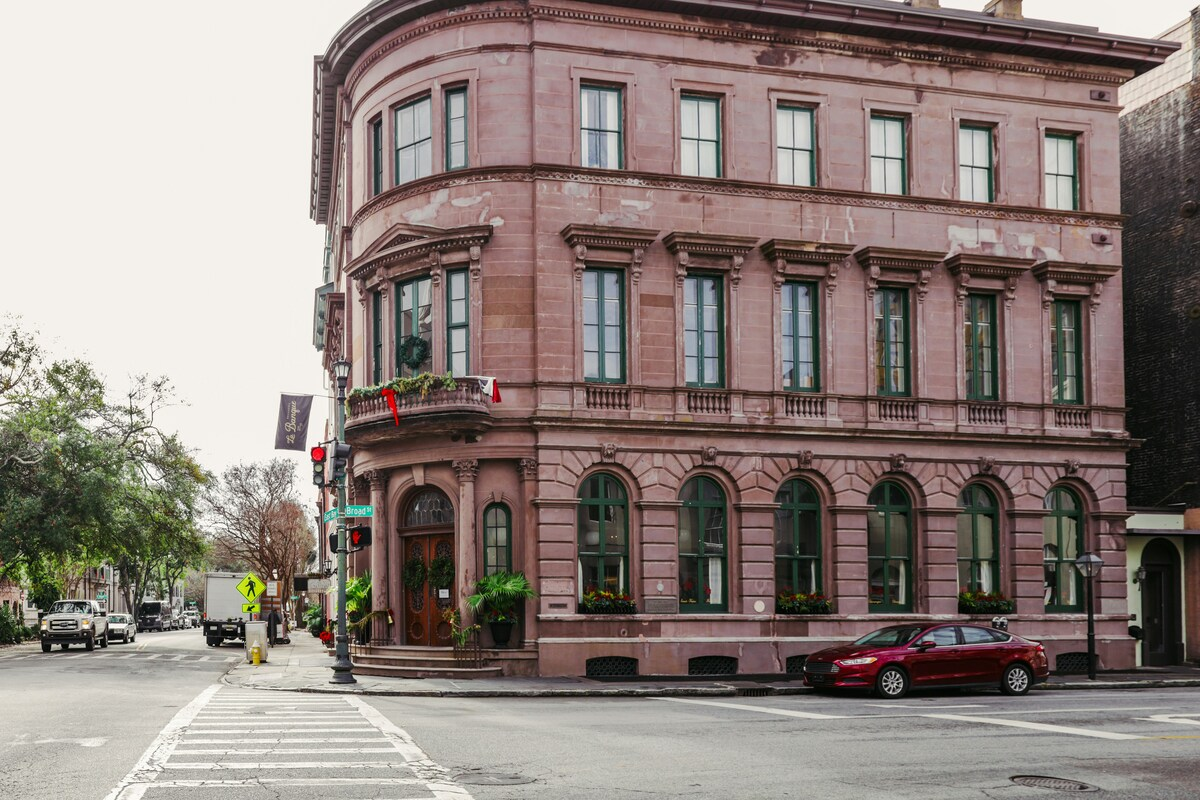
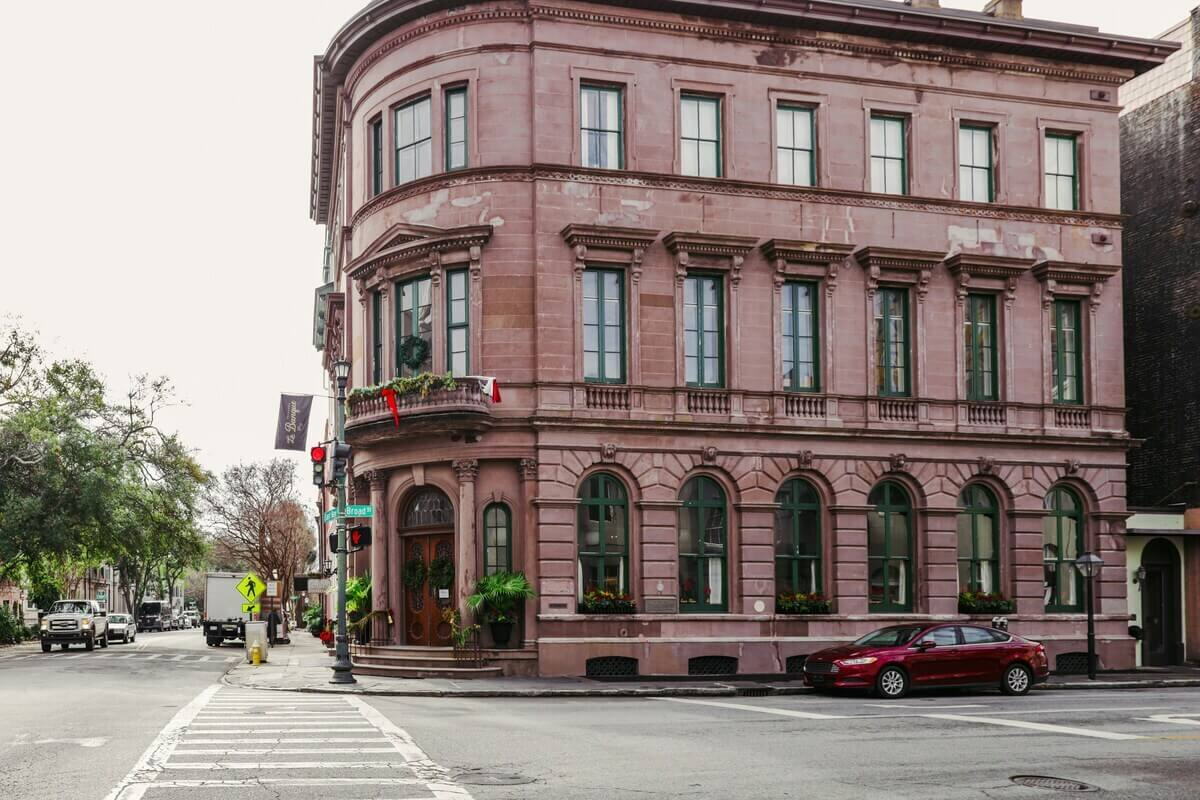
reestructuracion de carpetas, cambio de rutas y optimización de imagenes

diff --git a/pages/nosotros.html b/pages/nosotros.html
@@ -3,10 +3,10 @@
 <head>
   <meta charset="UTF-8">
   <meta name="viewport" content="width=device-width, initial-scale=1.0">
-  <link rel="stylesheet" href="./css/main.css">
+  <link rel="stylesheet" href="../css/main.css">
 
-    <title>Nosotros | Hotel El Refugio</title>
-    <link rel="shortcut icon" href="./img/logos/refugio.png" type="image/x-icon">
+    <title>Nosotros | Página Nosotros del Hotel El Refugio</title>
+    <link rel="shortcut icon" href="../img/logos/refugioicono.png" type="image/x-icon">
 
  <meta name="description" content="Hotel El Refugio ofrece alojamiento confortable, habitaciones acogedoras y atención personalizada para disfrutar de una estadía tranquila y agradable. Conocé nuestras instalaciones y reservá tu estadía.">
   <meta name="keywords" content="Hotel El Refugio, hotel en Córdoba, alojamiento en Córdoba, hospedaje en Córdoba, habitaciones de hotel, alojamiento confortable, estadía en Córdoba, reservas de hotel, hotel turístico, habitaciones acogedoras, turismo en Córdoba">
@@ -23,12 +23,12 @@
 
   <header>
     <nav class="header">
-      <div class="logo"><img src="./img/logos/refugio70x70.png" alt="logo hotel el refugio" title="logo hotel El Refugio"></div>
+      <div class="logo"><img src="../img/logos/refugio70x70.png" alt="logo hotel el refugio" title="logo hotel El Refugio"></div>
       <ul class="nav-links">
-        <li><a href="index.html">Inicio</a></li>
-        <li><a href="habitaciones.html">Habitaciones</a></li>
-        <li><a href="novedades.html">Novedades</a></li>
-        <li><a href="reservas.html">Reservas</a></li>
+        <li><a href="../index.html" title="link a la página inicio">Inicio</a></li>
+        <li><a href="./habitaciones.html" title="link a la página habitaciones">Habitaciones</a></li>
+        <li><a href="./novedades.html" title="link a la página novedades">Novedades</a></li>
+        <li><a href="./reservas.html" title="link a la página reservas">Reservas</a></li>
       </ul>
     </nav>
   </header>
@@ -37,8 +37,8 @@
     <section class="content">
       <h2>Hotel El Refugio: tu hogar en el corazón de la ciudad</h2>
       <div class="card refugio">
-      <img src="./img/images/lateralhotel1200x995.jpg" alt="lateral del hotel El Refugio" title="Foto del lateral del Hotel El Refugio">
-      <img src="./img/images/hotelcontrapicado995.jpg" alt="hotel El Refugio visto desde abajo" title="Foto del Hotel El Refugio visto desde abajo">
+      <img src="../img/images/lateralhotel1200x995.jpg" alt="lateral del hotel El Refugio" title="Foto del lateral del Hotel El Refugio">
+      <img src="../img/images/hotelcontrapicado995.jpg" alt="hotel El Refugio visto desde abajo" title="Foto del Hotel El Refugio visto desde abajo">
       </div>
 
       <div class="textorefugio">
@@ -57,23 +57,23 @@ Durante todo el año, viajeros de primer nivel de todo el mundo eligen El Refugi
       
       <div class="cards">
         <div class="card">
-          <img src="./img/logos/desayuno.png" alt="icono desayuno" class="logoinicio" title="icono de un café y una medialuna">
+          <img src="../img/logos/desayuno.png" alt="icono desayuno" class="logoinicio" title="icono de un café y una medialuna">
           <h4 class="titulocard">Desayuno incluido</h4>
           <p class="parrafocard">Buffet completo todas las mañanas.</p>
         </div>
 
         <div class="card">
-          <img src="./img/logos/wifi.png" alt="icono wifi" class="logoinicio" title="icono de señal de wifi">
+          <img src="../img/logos/wifi.png" alt="icono wifi" class="logoinicio" title="icono de señal de wifi">
           <h4 class="titulocard">WiFi gratuito</h4>
           <p class="parrafocard">Conexión de alta velocidad en todo el hotel.</p>
         </div>
         <div class="card">
-          <img src="./img/logos/estacionamiento.png" alt="icono estacionamiento de autos" class="logoinicio" title="icono de un auto estacionado">
+          <img src="../img/logos/estacionamiento.png" alt="icono estacionamiento de autos" class="logoinicio" title="icono de un auto estacionado">
           <h4 class="titulocard">Estacionamiento</h4>
           <p class="parrafocard">Cochera propia y vigilada para huéspedes.</p>
         </div>
         <div class="card">
-          <img src="./img/logos/piscina.png" alt="icono piscina" class="logoinicio" title="icono piscina">
+          <img src="../img/logos/piscina.png" alt="icono piscina" class="logoinicio" title="icono piscina">
           <h4 class="titulocard">Pileta y spa</h4>
           <p class="parrafocard">Un espacio para relajarte durante tu estadía.</p>
         </div>
@@ -95,10 +95,10 @@ Durante todo el año, viajeros de primer nivel de todo el mundo eligen El Refugi
        <p class="footertext">Hotel El Refugio, Av. Vélez Sarsfield 350, Ciudad de Córdoba.<br>&copy; 2026 Hotel El Refugio. Todos los derechos reservados.</p>
    
     <div class="redes">
-      <a href="https://www.instagram.com/"><img src="./img/logos/instagram.png" alt="logo instagram" title="Instagram"></a>
-      <a href="https://www.facebook.com/"><img src="./img/logos/facebook.png" alt="logo facebook" title="Facebook"></a>
-      <a href="https://web.whatsapp.com/"><img src="./img/logos/whatsapp.png" alt="logo instagram" title="Whatsapp"></a>
-      <a href="https://x.com/?lang=es"><img src="./img/logos/x.png" alt="logo x" title="X"></a>
+      <a href="https://www.instagram.com/"><img src="../img/logos/instagram.png" alt="logo instagram" title="Instagram"></a>
+      <a href="https://www.facebook.com/"><img src="../img/logos/facebook.png" alt="logo facebook" title="Facebook"></a>
+      <a href="https://web.whatsapp.com/"><img src="../img/logos/whatsapp.png" alt="logo instagram" title="Whatsapp"></a>
+      <a href="https://x.com/?lang=es"><img src="../img/logos/x.png" alt="logo x" title="X"></a>
     </div>
   </footer>
 

diff --git a/pages/habitaciones.html b/pages/habitaciones.html
@@ -4,10 +4,10 @@
   <meta charset="UTF-8">
   <meta name="viewport" content="width=device-width, initial-scale=1.0">
 
-  <link rel="stylesheet" href="./css/main.css">
+  <link rel="stylesheet" href="../css/main.css">
 
-    <title>Habitaciones | Hotel El Refugio</title>
-   <link rel="shortcut icon" href="./img/logos/refugioicono.png" type="image/x-icon">
+    <title>Habitaciones | Página Habitaciones del Hotel El Refugio</title>
+   <link rel="shortcut icon" href="../img/logos/refugioicono.png" type="image/x-icon">
 
 
  <meta name="description" content="Hotel El Refugio ofrece alojamiento confortable, habitaciones acogedoras y atención personalizada para disfrutar de una estadía tranquila y agradable. Conocé nuestras instalaciones y reservá tu estadía.">
@@ -25,12 +25,12 @@
 
   <header>
    <nav class="header">
-      <div class="logo"><img src="./img/logos/refugio70x70.png" alt="logo hotel el refugio" title="logo del Hotel El Refugio"></div>
+      <div class="logo"><img src="../img/logos/refugio70x70.png" alt="logo hotel el refugio" title="logo del Hotel El Refugio"></div>
       <ul class="nav-links">
-          <li><a href="index.html">Inicio</a></li>
-          <li><a href="nosotros.html">El Hotel</a></li>
-          <li><a href="novedades.html">Novedades</a></li>
-          <li><a href="reservas.html">Reservas</a></li>
+          <li><a href="../index.html" title="link a la página de inicio" >Inicio</a></li>
+          <li><a href="./nosotros.html" title="link a la página nosotros">El Hotel</a></li>
+          <li><a href="./novedades.html" title="link a la págima novedades">Novedades</a></li>
+          <li><a href="./reservas.html" title="link a la página reservas">Reservas</a></li>
       </ul>
     </nav>
   </header>
@@ -41,21 +41,21 @@
       <div class="cards">
 
         <div class="card">
-            <img src="./img/images/room1.jpg" alt="habitacion individual con cama Queen" title="Habitación con cama doble y vista al exterior">
+            <img src="../img/images/room1.jpg" alt="habitacion individual con cama Queen" title="Habitación con cama doble y vista al exterior">
           <h5 class="titulocard">Habitación Individual</h5>
           <p class="parrafocard">Ideal para viajeros solos. Cama individual tamaño queen, escritorio y baño privado.</p>
           <p class="price">Desde $45.000 / noche</p>
         </div>
 
         <div class="card">
-           <img src="./img/images/room2.jpg" alt="habitacion doble con cama Queen" title="Habitación doble con ventana al exterior y poltrona">
+           <img src="../img/images/room2.jpg" alt="habitacion doble con cama Queen" title="Habitación doble con ventana al exterior y poltrona">
           <h5 class="titulocard">Habitación Doble</h5>
           <p class="parrafocard">Perfecta para parejas. Cama matrimonial tamaño queen, vista a la ciudad y minibar.</p>
           <p class="price">Desde $65.000 / noche</p>
         </div>
 
         <div class="card">
-           <img src="./img/images/room3.jpg" alt="habitacion cuadruple con cama queen + dos camas individuales" title="foto de una sala grande con sillones y acceso a habitaciones">
+           <img src="../img/images/room3.jpg" alt="habitacion cuadruple con cama queen + dos camas individuales" title="foto de una sala grande con sillones y acceso a habitaciones">
           <h5 class="titulocard">Suite Familiar</h5>
           <p class="parrafocard">Amplio espacio para toda la familia, con sala de estar y dos ambientes. Para cuatro personas o más.</p>
           <p class="price">Desde $95.000 / noche</p>
@@ -72,10 +72,10 @@
        <p class="footertext">Hotel El Refugio, Av. Vélez Sarsfield 350, Ciudad de Córdoba.<br>&copy; 2026 Hotel El Refugio. Todos los derechos reservados.</p>
    
     <div class="redes">
-      <a href="https://www.instagram.com/"><img src="./img/logos/instagram.png" alt="logo instagram" title="Instagram"></a>
-      <a href="https://www.facebook.com/"><img src="./img/logos/facebook.png" alt="logo facebook" title="Facebook"></a>
-      <a href="https://web.whatsapp.com/"><img src="./img/logos/whatsapp.png" alt="logo instagram" title="Whatsapp"></a>
-      <a href="https://x.com/?lang=es"><img src="./img/logos/x.png" alt="logo x" title="X"></a>
+      <a href="https://www.instagram.com/"><img src="../img/logos/instagram.png" alt="logo instagram" title="Instagram"></a>
+      <a href="https://www.facebook.com/"><img src="../img/logos/facebook.png" alt="logo facebook" title="Facebook"></a>
+      <a href="https://web.whatsapp.com/"><img src="../img/logos/whatsapp.png" alt="logo instagram" title="Whatsapp"></a>
+      <a href="https://x.com/?lang=es"><img src="../img/logos/x.png" alt="logo x" title="X"></a>
     </div>
   </footer>
 

diff --git a/pages/reservas.html b/pages/reservas.html
@@ -4,10 +4,10 @@
   <meta charset="UTF-8">
   <meta name="viewport" content="width=device-width, initial-scale=1.0">
 
-  <link rel="stylesheet" href="./css/main.css">
+  <link rel="stylesheet" href="../css/main.css">
 
-    <title>Reservas | Hotel El Refugio</title>
-    <link rel="shortcut icon" href="./img/logos/refugioicono.png" type="image/x-icon">
+    <title>Reservas | Página Reservas del Hotel El Refugio</title>
+    <link rel="shortcut icon" href="../img/logos/refugioicono.png" type="image/x-icon">
 
  <meta name="description" content="Hotel El Refugio ofrece alojamiento confortable, habitaciones acogedoras y atención personalizada para disfrutar de una estadía tranquila y agradable. Conocé nuestras instalaciones y reservá tu estadía.>
   <meta name="keywords" content="Hotel El Refugio, hotel en Córdoba, alojamiento en Córdoba, hospedaje en Córdoba, habitaciones de hotel, alojamiento confortable, estadía en Córdoba, reservas de hotel, hotel turístico, habitaciones acogedoras, turismo en Córdoba">
@@ -24,12 +24,12 @@
 
   <header>
     <nav class="header">
-      <div class="logo"><img src="./img/logos/refugio70x70.png" alt="logo hotel el refugio" title="logo hotel El Refugio"></div>
+      <div class="logo"><img src="../img/logos/refugio70x70.png" alt="logo hotel el refugio" title="logo hotel El Refugio"></div>
       <ul class="nav-links">
-        <li><a href="index.html">Inicio</a></li>
-        <li><a href="nosotros.html">El Hotel</a></li>
-        <li><a href="habitaciones.html">Habitaciones</a></li>
-        <li><a href="novedades.html">Novedades</a></li>
+        <li><a href="../index.html" title="link a la página de inicio">Inicio</a></li>
+        <li><a href="./nosotros.html" title="link a la página nosotros">El Hotel</a></li>
+        <li><a href="./habitaciones.html" title="link a la página habitaciones">Habitaciones</a></li>
+        <li><a href="./novedades.html" title="link a la página novedades">Novedades</a></li>
       </ul>
     </nav>
   </header>

diff --git a/index.html b/index.html
@@ -5,7 +5,7 @@
   <meta name="viewport" content="width=device-width, initial-scale=1.0">
   <link rel="stylesheet" href="./css/main.css">
 
-  <title>Inicio | Hotel Boutique El Refugio</title>
+  <title>Inicio | Página de Inicio del Hotel Boutique El Refugio</title>
   <link rel="shortcut icon" href="./img/logos/refugioicono.png" type="image/x-icon">
 
   <meta name="description" content="Hotel El Refugio ofrece alojamiento confortable, habitaciones acogedoras y atención personalizada para disfrutar de una estadía tranquila y agradable. Conocé nuestras instalaciones y reservá tu estadía.>
@@ -28,10 +28,10 @@
       <div class="logo"><img src="./img/logos/refugio70x70.png" alt="logo hotel el refugio" title="logo hotel El Refugio"></div>
       <ul class="nav-links">
     
-          <li><a href="nosotros.html">El Hotel</a></li>
-          <li><a href="habitaciones.html">Habitaciones</a></li>
-          <li><a href="novedades.html">Novedades</a></li>
-          <li><a href="reservas.html">Reservas</a></li>
+          <li><a href="./pages/nosotros.html" title="link a la página nosotros">El Hotel</a></li>
+          <li><a href="./pages/habitaciones.html" title="link a la página habitaciones">Habitaciones</a></li>
+          <li><a href="./pages/novedades.html" title="link a la página novedades">Novedades</a></li>
+          <li><a href="./pages/reservas.html" title="link a la página reservas">Reservas</a></li>
       </ul>
     </nav>
   </header>
@@ -41,7 +41,7 @@
     <section class="hero">
       <h1>Bienvenidos al Hotel El Refugio</h1>
       <p class="parrafohero">Confort, elegancia y la mejor atención en el corazón de la ciudad.</p>
-      <a href="./reservas.html" class="btn-primary" title="botón de reservas">Reservá tu habitación</a>
+      <a href="./pages/reservas.html" class="btn-primary" title="botón de reservas">Reservá tu habitación</a>
     </section>
 
     <section class="content">

diff --git a/pages/novedades.html b/pages/novedades.html
@@ -6,12 +6,12 @@
  
    <link href="https://cdn.jsdelivr.net/npm/bootstrap@5.3.8/dist/css/bootstrap.min.css" rel="stylesheet" integrity="sha384-sRIl4kxILFvY47J16cr9ZwB07vP4J8+LH7qKQnuqkuIAvNWLzeN8tE5YBujZqJLB" crossorigin="anonymous">
 
-    <link rel="stylesheet" href="./css/main.css">
+    <link rel="stylesheet" href="../css/main.css">
 
-       <title>Novedades | Hotel El Refugio</title>
+       <title>Novedades | Página Novedades del Hotel El Refugio</title>
     <link
       rel="shortcut icon"
-      href="./img/logos/refugioicono.png"
+      href="../img/logos/refugioicono.png"
      type="image/x-icon">
 
       <meta name="description" content="Hotel El Refugio ofrece alojamiento confortable, habitaciones acogedoras y atención personalizada para disfrutar de una estadía tranquila y agradable. Conocé nuestras instalaciones y reservá tu estadía.">
@@ -35,10 +35,10 @@
           <img src="./img/logos/refugio70x70.png" alt="logo hotel el refugio" title="logo hotel El Refugio"/>
         </div>
         <ul class="nav-links">
-            <li><a href="index.html">Inicio</a></li>          
-            <li><a href="nosotros.html">El Hotel</a></li>
-            <li><a href="habitaciones.html">Habitaciones</a></li>
-            <li><a href="reservas.html">Reservas</a></li>
+            <li><a href="../index.html" title="link a la página inicio">Inicio</a></li>          
+            <li><a href="./nosotros.html" title="link a la página nosotros">El Hotel</a></li>
+            <li><a href="./habitaciones.html" title="link a la página habitaciones">Habitaciones</a></li>
+            <li><a href="./reservas.html" title="link a la página reservas">Reservas</a></li>
         </ul>
       </nav>
     </header>

diff --git a/scss/main.scss b/scss/main.scss
@@ -9,7 +9,7 @@
 @use "./components/forms";
 @use "./components/footer";
 @use "./components/cards";
-@use "./pages/nosotros.scss";
+@use "./pages/nosotros";
 @use "./pages/novedades";
 @use "./pages/reservas";
 @use "./pages/habitaciones";
